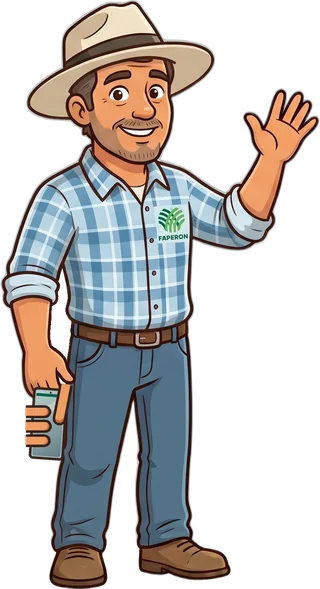
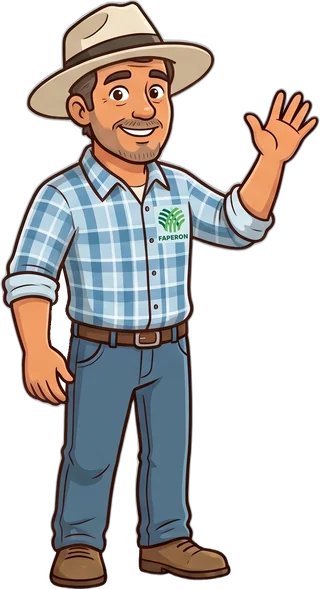
feat(web): Zétele acenando com a mão vazia, como na arte original
Pedido do usuário: tirar o celular e deixar a mão normal. O script deixa de
desenhar objeto na pose acenando; tablet e apontando saem idênticos.

Changed region(s): [[0.0625, 0.6418, 0.25, 0.7946]]

diff --git a/apps/web/scripts/recortar-zetele.py b/apps/web/scripts/recortar-zetele.py
@@ -1,6 +1,6 @@
 """Recorta as 3 poses do Zétele da arte original, remove o fundo e grava em public/zetele/.
-Arte atual: Zétele com a camisa da FAPERON. Na pose acenando, desenha um celular na mão baixa,
-no mesmo traço do tablet da outra pose (a arte original traz a mão vazia).
+Arte atual: Zétele com a camisa da FAPERON. A pose acenando fica como na arte original, com a mão
+baixa vazia (pedido do usuário, 18/10/2026: sem enxada e sem celular).
 
 Uso (raiz do repo):
   uv run --with pillow --with scipy --with "rembg[cpu]==2.0.85" \\
@@ -13,7 +13,7 @@ import sys
 from pathlib import Path
 
 import numpy as np
-from PIL import Image, ImageDraw
+from PIL import Image
 from rembg import new_session, remove
 from scipy import ndimage
 
@@ -70,114 +70,6 @@ def recortar(pose: Image.Image, mascara: Image.Image) -> Image.Image:
     return Image.fromarray(np.dstack([cor, alfa]).astype(np.uint8), "RGBA")
 
 
-# Coordenadas do celular, pensadas na largura final (LARGURA = 320) da pose acenando.
-REF = 320
-CONTORNO = (52, 36, 28, 255)
-# Centro, tamanho e inclinação do aparelho (graus; positivo tomba o topo para a esquerda).
-CELULAR = {"centro": (48.5, 424.0), "largura": 35.0, "altura": 72.0, "angulo": -4.0}
-# Polegar: a base é o polegar original (que aponta para a perna); o segmento novo dobra para
-# baixo por cima da borda direita da tela.
-POLEGAR = {"base": (66.0, 385.0), "ponta": (59.5, 419.0), "raio": 5.5}
-# Pontas dos dedos que dobram sobre a borda esquerda da tela: (x inicial, x final, y, raio).
-DEDOS = [(26.0, 44.5, 412.0, 5.4), (26.0, 45.0, 426.5, 5.5), (26.0, 44.0, 441.0, 5.3)]
-
-
-def mediana_pele(img: Image.Image, caixa: tuple[int, int, int, int]) -> tuple[int, int, int, int]:
-    """Cor de pele amostrada da própria mão: mediana dos pixels opacos e alaranjados da caixa."""
-    px = np.asarray(img.crop(caixa)).reshape(-1, 4)
-    pele = px[(px[:, 3] == 255) & (px[:, 0] > 150) & (px[:, 0] > px[:, 2] + 50)]
-    r, g, b = np.median(pele[:, :3], axis=0).astype(int)
-    return int(r), int(g), int(b), 255
-
-
-def capsula(d: ImageDraw.ImageDraw, a, b, raio: float, cor, borda: float) -> None:
-    """Dedo de a até b: ponta redonda em b, sombra embaixo e contorno. O lado de a fica reto e
-    sem contorno, para o dedo nascer da pele que já existe na mão."""
-    ax, ay = a
-    bx, by = b
-    ang = np.arctan2(by - ay, bx - ax)
-    arco = np.linspace(ang - np.pi / 2, ang + np.pi / 2, 14)
-    pontos = [(bx + raio * np.cos(t), by + raio * np.sin(t)) for t in arco]
-    nx, ny = -np.sin(ang) * raio, np.cos(ang) * raio
-    pontos += [(ax + nx, ay + ny), (ax - nx, ay - ny)]
-    pele, sombra = cor
-    d.polygon(pontos, fill=sombra)
-    # Parte clara encolhida e puxada para cima/esquerda: sobra a sombra embaixo, sem vazar do
-    # contorno; o lado reto não encolhe, para continuar colado na pele.
-    mx, my = (ax + bx) / 2, (ay + by) / 2
-    dx, dy = -0.12 * raio, -0.15 * raio
-    claro = [(mx + (x - mx) * 0.85 + dx, my + (y - my) * 0.85 + dy) for x, y in pontos[:-2]]
-    claro += [(ax + nx * 0.85 + dx, ay + ny * 0.85 + dy), (ax - nx * 0.85 + dx, ay - ny * 0.85 + dy)]
-    d.polygon(claro, fill=pele)
-    d.line([pontos[-1]] + pontos[:-2] + [pontos[-2]], fill=CONTORNO, width=round(borda), joint="curve")
-
-
-def desenhar_celular(s: float) -> Image.Image:
-    """Smartphone de pé, no traço do tablet da outra pose: contorno grosso, aro claro, tela em
-    degradê com brilho diagonal e um toque do verde FAPERON no alto, câmera frontal."""
-    w, h = round(CELULAR["largura"] * s), round(CELULAR["altura"] * s)
-    borda = round(2.4 * s)
-    raio = 4.2 * s
-    aparelho = Image.new("RGBA", (w, h), (0, 0, 0, 0))
-    d = ImageDraw.Draw(aparelho)
-    # Corpo: aro claro (como o do tablet) dentro do contorno grosso.
-    d.rounded_rectangle(
-        [0, 0, w - 1, h - 1], radius=raio, fill=(168, 178, 188, 255), outline=CONTORNO, width=borda
-    )
-    aro = borda + round(1.1 * s)
-    tela = Image.new("RGBA", (w, h), (0, 0, 0, 0))
-    yy, xx = np.mgrid[0:h, 0:w]
-    t = np.clip((yy / h) * 0.75 + (xx / w) * 0.25, 0, 1)[..., None]
-    topo, fundo = np.array([188, 214, 206]), np.array([98, 120, 132])
-    cor = (topo * (1 - t) + fundo * t).astype(np.uint8)
-    tela_rgb = Image.fromarray(np.dstack([cor, np.full((h, w), 255, np.uint8)]), "RGBA")
-    mascara = Image.new("L", (w, h), 0)
-    ImageDraw.Draw(mascara).rounded_rectangle(
-        [aro, aro, w - 1 - aro, h - 1 - aro], radius=raio * 0.55, fill=255
-    )
-    tela.paste(tela_rgb, (0, 0), mascara)
-    dt = ImageDraw.Draw(tela)
-    # Barra verde no alto da tela (verde FAPERON) e brilho diagonal translúcido.
-    dt.rectangle([aro, aro + 2.6 * s, w - 1 - aro, aro + 5.2 * s], fill=(0, 96, 78, 255))
-    brilho = Image.new("RGBA", (w, h), (0, 0, 0, 0))
-    ImageDraw.Draw(brilho).polygon(
-        [(aro, aro + 24 * s), (aro, aro + 36 * s), (w - aro, aro + 9 * s), (w - aro, aro + 2 * s)],
-        fill=(255, 255, 255, 78),
-    )
-    brilho.putalpha(Image.fromarray(np.asarray(brilho)[..., 3] * (np.asarray(mascara) > 0)))
-    tela.alpha_composite(brilho)
-    aparelho.alpha_composite(tela)
-    d = ImageDraw.Draw(aparelho)
-    cx, cy, r = w / 2, aro + 1.3 * s, 0.9 * s
-    d.ellipse([cx - r, cy - r, cx + r, cy + r], fill=(60, 50, 44, 255))  # câmera frontal
-    return aparelho.rotate(CELULAR["angulo"], resample=Image.Resampling.BICUBIC, expand=True)
-
-
-def segurar_celular(img: Image.Image) -> Image.Image:
-    """Celular na mão baixa, como se segurado de verdade: aparelho à frente da palma, pontas
-    dos dedos dobrando sobre a borda esquerda da tela e polegar cruzando o canto de cima.
-    Desenha em 2x e reduz, para o traço sair suave."""
-    s = 2 * img.width / REF
-    p = lambda x, y: (x * s, y * s)
-    lona = Image.new("RGBA", (img.width * 2, img.height * 2), (0, 0, 0, 0))
-    celular = desenhar_celular(s)
-    cx, cy = p(*CELULAR["centro"])
-    lona.alpha_composite(celular, (round(cx - celular.width / 2), round(cy - celular.height / 2)))
-    d = ImageDraw.Draw(lona)
-    # Pele amostrada do dorso da mão (acima do aparelho); a sombra é a mesma pele mais quente e escura.
-    f = img.width / REF
-    pele = mediana_pele(img, (int(30 * f), int(355 * f), int(50 * f), int(375 * f)))
-    sombra = (int(pele[0] * 0.86), int(pele[1] * 0.72), int(pele[2] * 0.62), 255)
-    borda = 2.4 * s
-    for x0, x1, y, raio in DEDOS:
-        capsula(d, p(x0, y), p(x1, y), raio * s, (pele, sombra), borda)
-    capsula(d, p(*POLEGAR["base"]), p(*POLEGAR["ponta"]), POLEGAR["raio"] * s, (pele, sombra), borda)
-    sobre = lona.resize(img.size, Image.Resampling.LANCZOS)
-    saida = img.copy()
-    saida.alpha_composite(sobre)
-    return saida
-
-
 def main(arte: Path) -> None:
     DESTINO.mkdir(parents=True, exist_ok=True)
     original = Image.open(arte).convert("RGB")
@@ -190,10 +82,6 @@ def main(arte: Path) -> None:
         assert isinstance(mascara, Image.Image)
         recorte = recortar(pose, mascara)
         recorte = recorte.crop(recorte.getbbox())
-        if nome == "acenando":
-            # pedido do usuário (18/10/2026): o Zétele acenando segura um celular, no lugar da
-            # enxada de 17/10
-            recorte = segurar_celular(recorte)
         altura = round(recorte.height * LARGURA / recorte.width)
         final = recorte.resize((LARGURA, altura), Image.Resampling.LANCZOS)
         png = DESTINO / f"{nome}.png"
